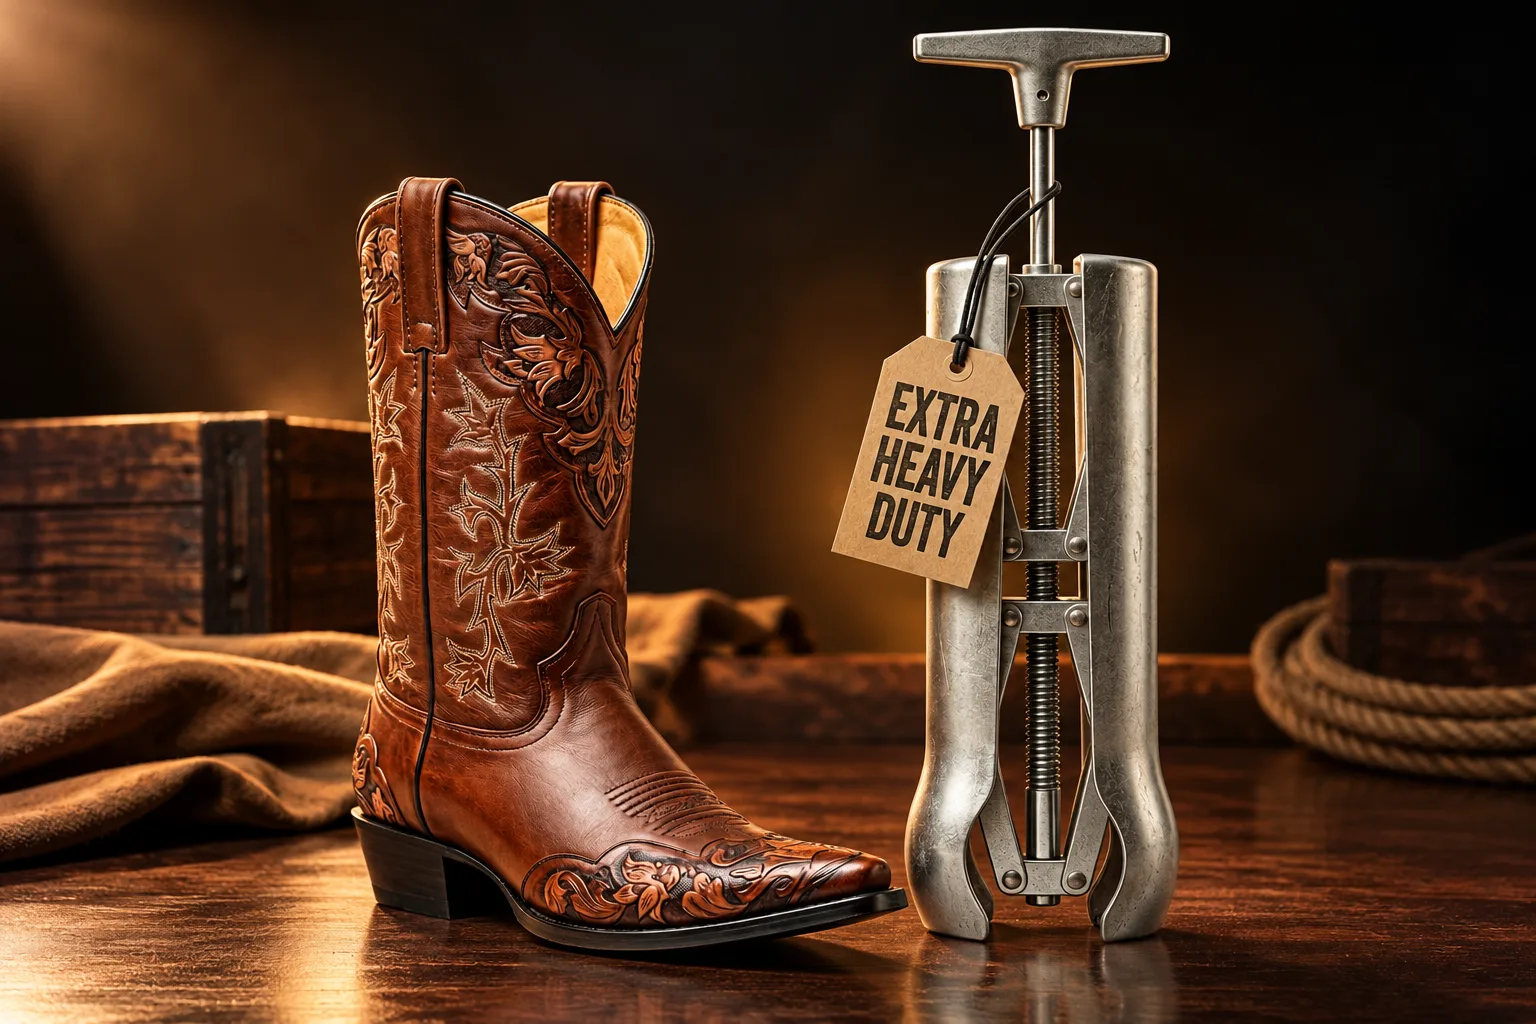
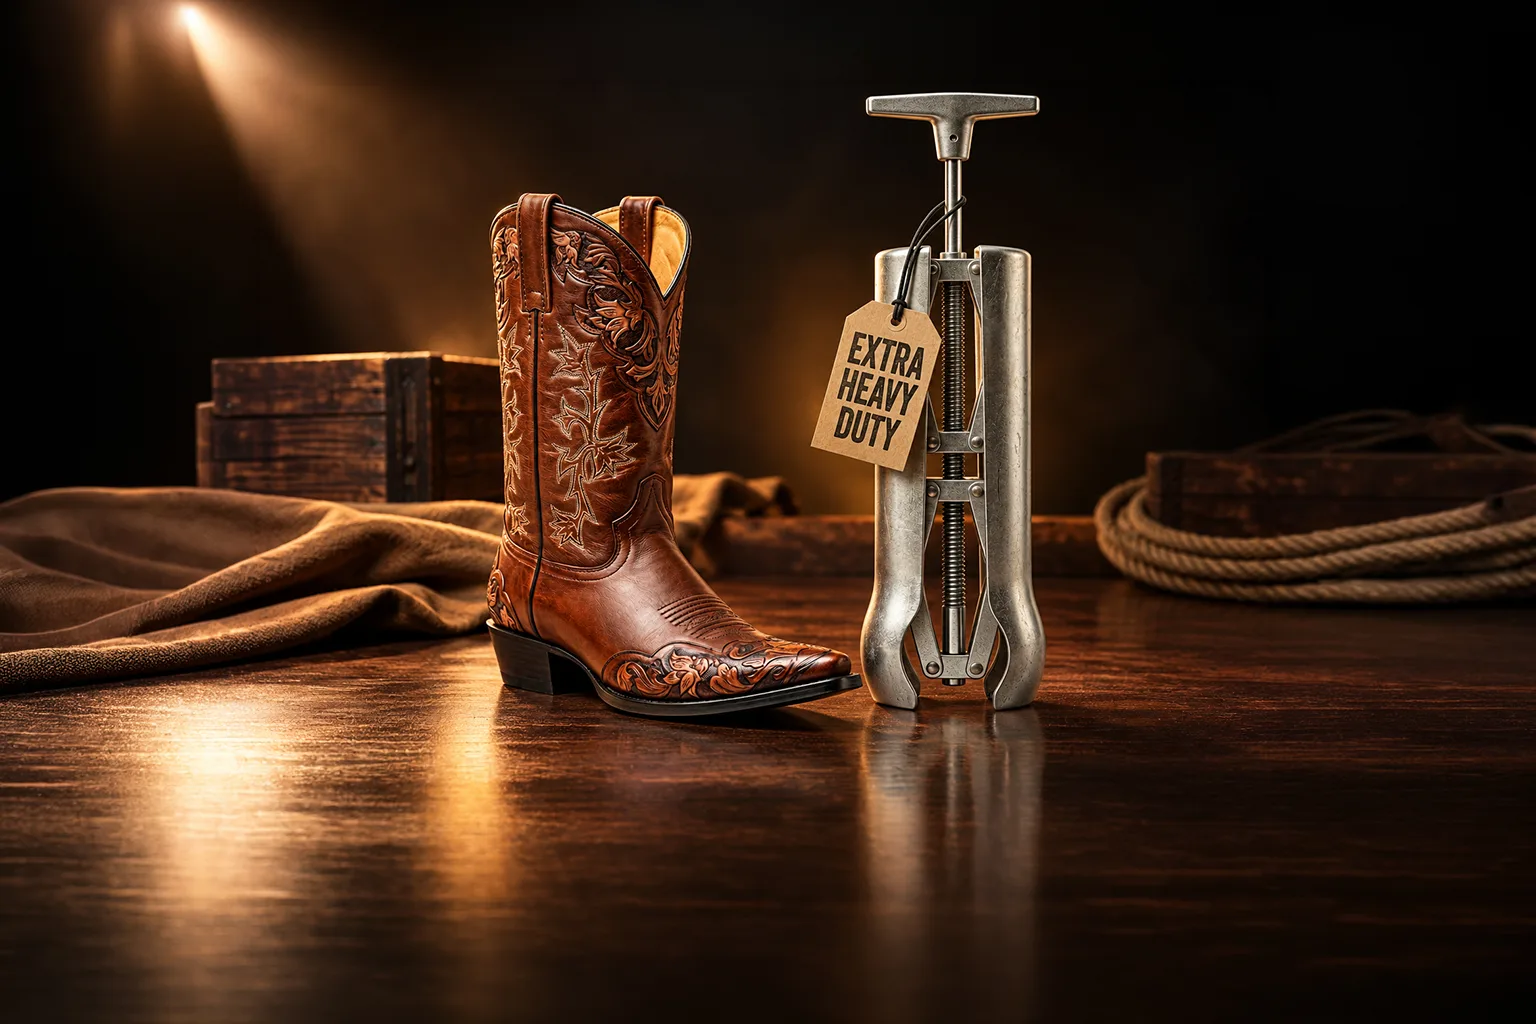
Use wider hero image for Boot Stretcher case study
The tighter crop lost the stretcher handle in the 16:9 hero frame.

diff --git a/components/LeatherHeroBootStretcherCaseStudy.jsx b/components/LeatherHeroBootStretcherCaseStudy.jsx
@@ -40,7 +40,7 @@ export default function LeatherHeroBootStretcherCaseStudy() {
             ['Scope', meta.scope],
             ['Published', meta.published],
           ]}
-          image={{ src: '/images/lx/work/leather-hero-boot-stretcher.webp', alt: 'Leather Hero boot stretcher with an “Extra Heavy Duty” tag beside a tooled brown cowboy boot on a dark wood floor', width: 1536, height: 1024 }}
+          image={{ src: '/images/lx/work/leather-hero-boot-stretcher.webp', alt: 'Leather Hero boot stretcher with an “Extra Heavy Duty” tag beside a tooled brown cowboy boot on a dark wood floor', width: 1536, height: 1024, style: { objectPosition: 'center 40%' } }}
         />
 
         <CaseText eyebrow="The context" title="Third product, a different sell">
